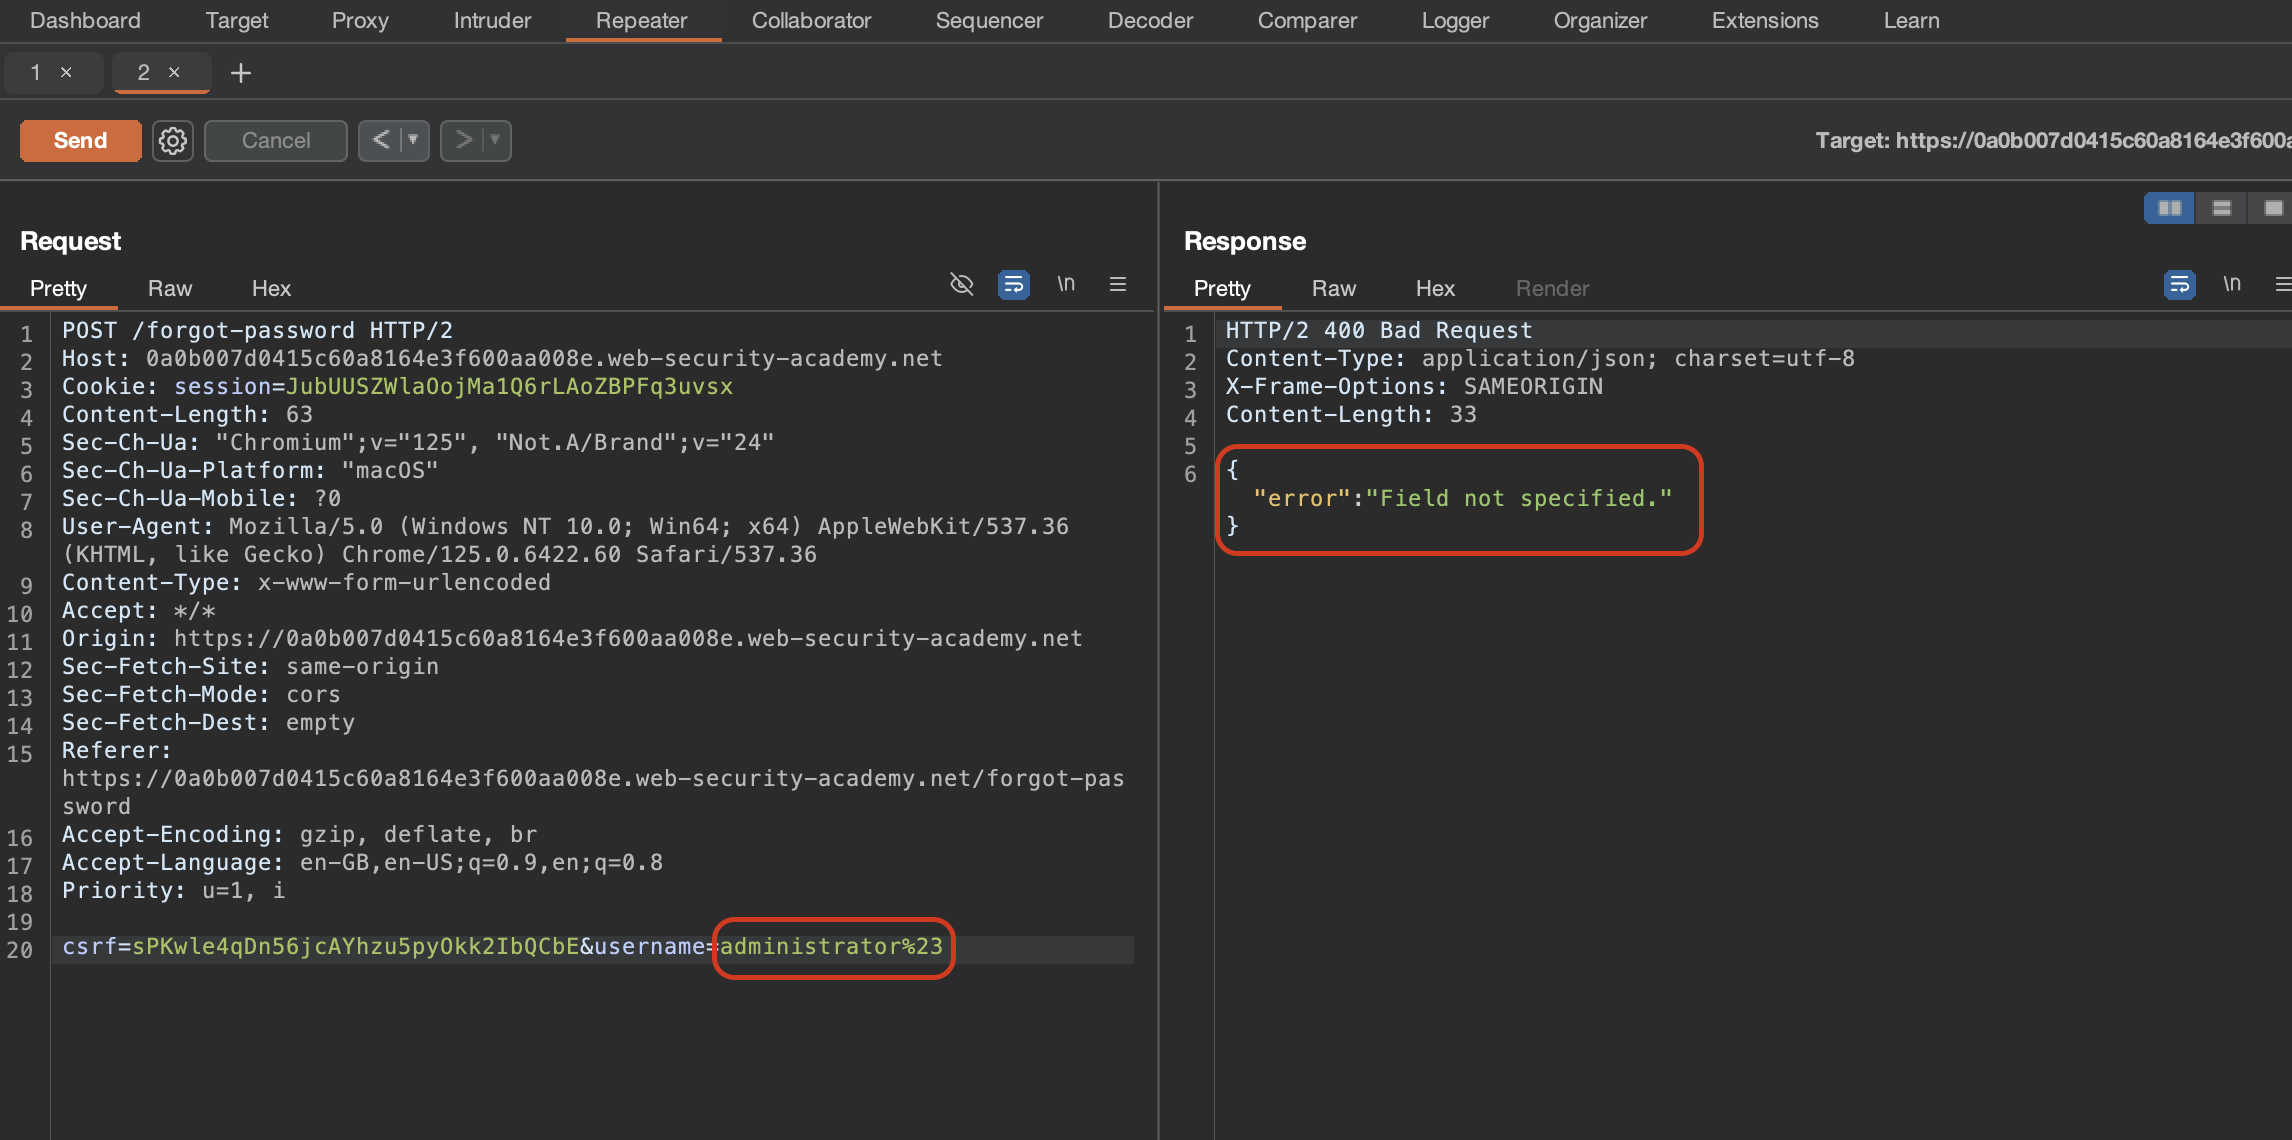
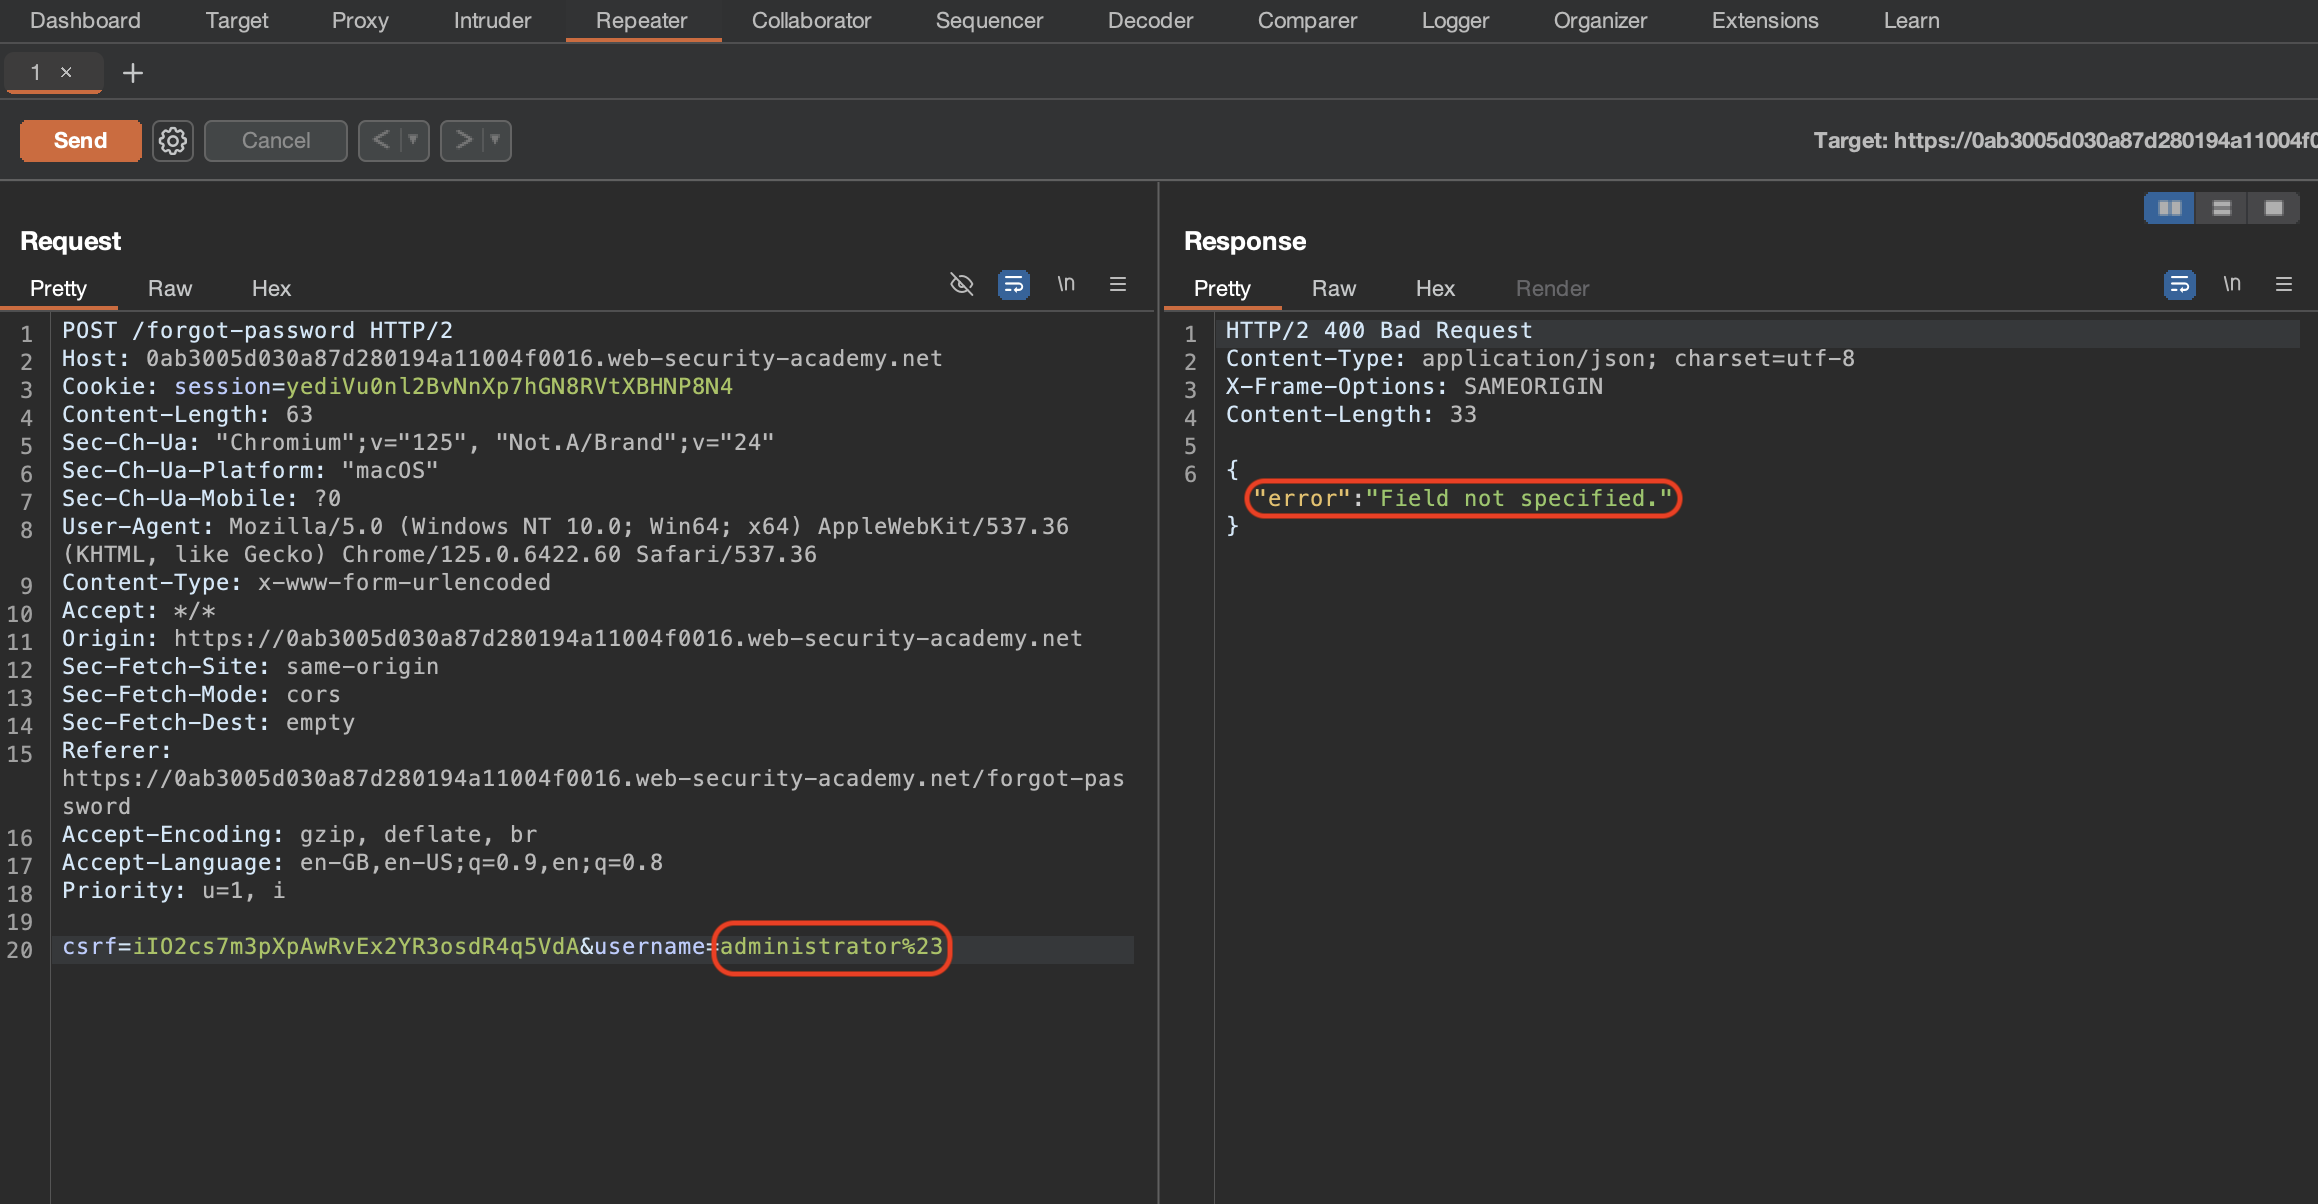
Updated answer.md

diff --git a/WSA(Burp)/LAB-4-Testing-for-serverside-parameter-pollution-in-the-query-string/answer.md b/WSA(Burp)/LAB-4-Testing-for-serverside-parameter-pollution-in-the-query-string/answer.md
@@ -54,4 +54,7 @@ For now, I'll keep all the details above and proceed with trying to manipulate t
 
 !["Repeater"](/WSA(Burp)/LAB-4-Testing-for-serverside-parameter-pollution-in-the-query-string/images/7.png)
 
-Next, I will attempt to truncate the server-side request by adding URL-encoded ```#``` character (which is ```%23```) after ```administrator``` then I sent the request.
+Next, I will attempt to truncate the server-side request by adding URL-encoded ```#``` character (which is ```%23```) after ```administrator``` then I sent the request. Check the response i got below:
+
+!["Response"](/WSA(Burp)/LAB-4-Testing-for-serverside-parameter-pollution-in-the-query-string/images/8.png)
+
